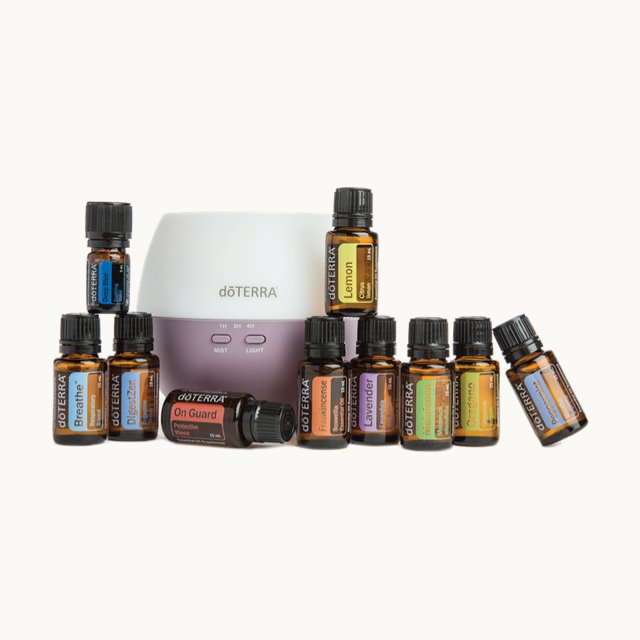
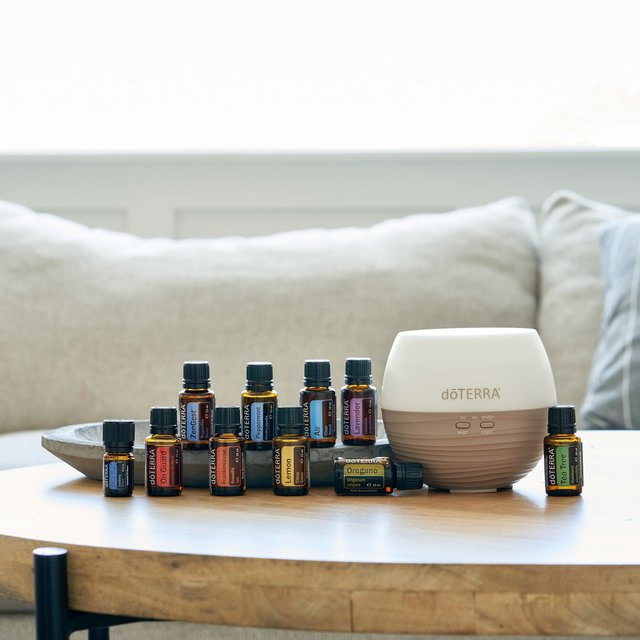
Listopad sezonowe: zdjęcie Home Essentials z aranżacją (DMK doTERRA Europe)

diff --git a/listopad-sezonowe/index.html b/listopad-sezonowe/index.html
@@ -113,7 +113,7 @@ h3{font-size:19px;font-weight:600;margin:0 0 5px;line-height:1.25} .op{font-size
 <article class="k"><div class="foto"><img src="img/class-kit-lawenda.jpg" alt="Class Kit z lawendą"></div>
 <div class="tr"><div class="meta"><span class="et">NOWY ZESTAW</span><span class="pvm">· 45,5 PV</span></div>
 <h3>Class Kit — lawenda</h3><div class="op">10 × olejek lawendowy 5 ml i 10 ulotek „Naturalne rozwiązania”</div><div class="row"><div><div class="lab ak">Cena</div><div class="pln">420,75 <span>zł</span></div></div></div></div></article>
-<article class="k"><div class="foto"><img src="img/home-essentials.jpg" alt="Zestaw Home Essentials"></div>
+<article class="k"><div class="foto"><img src="img/home-essentials.jpg?v=2" alt="Zestaw Home Essentials"></div>
 <div class="tr"><div class="meta"><span class="et">TYLKO PRZY REJESTRACJI</span><span class="pvm">· 230 PV</span></div>
 <h3>Zestaw Home Essentials — cena dla nowych osób</h3><div class="op">Niższa cena tylko w zamówieniu rejestracyjnym. Oferta do 30.04.2027.<br>Zwykła cena zestawu: 1492,75 zł.</div><div class="row"><div><div class="lab ak">Cena</div><div class="pln">1239,25 <span>zł</span></div></div></div></div></article></div>
 </div></div></div></body></html>
